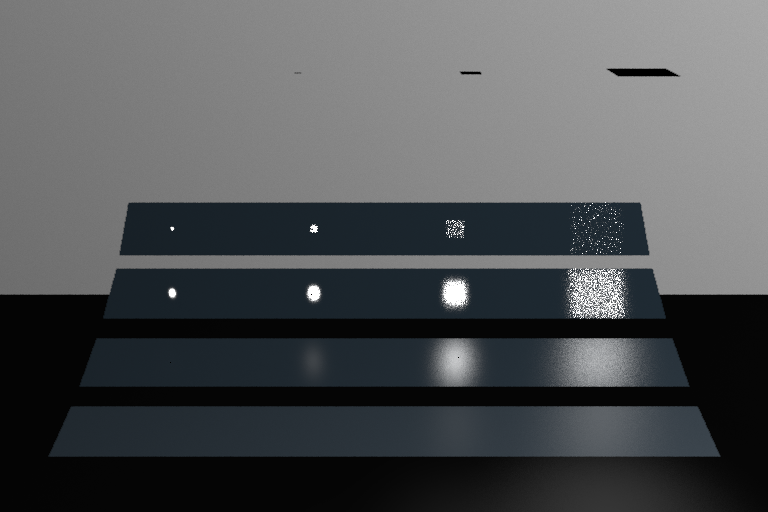
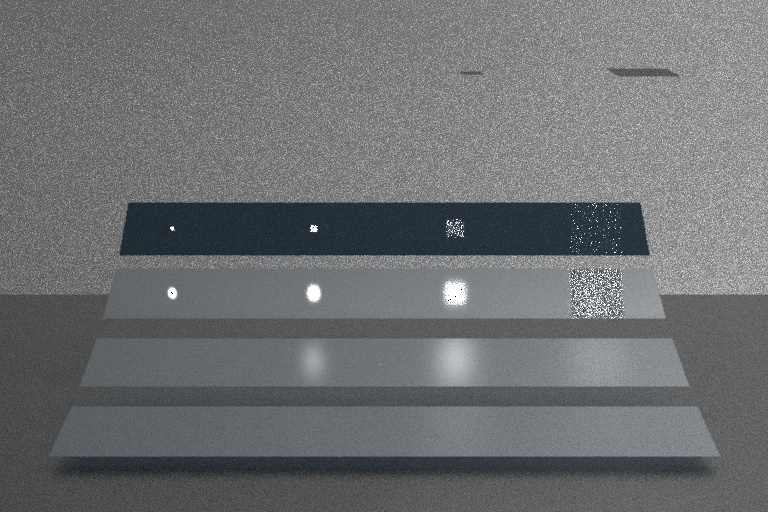
Further MIS WIP

diff --git a/src/raytracer.cpp b/src/raytracer.cpp
@@ -997,7 +997,7 @@ glm::vec3 PathTracerFindColor(UniformGrid* grid, const Ray& ray, Scene* scene, C
 
 
 
-	if (depth >= maxDepth)
+	if (depth > maxDepth)
 	{
 		return accumCol;
 		//	return glm::vec3(0.0f);
@@ -1008,6 +1008,8 @@ glm::vec3 PathTracerFindColor(UniformGrid* grid, const Ray& ray, Scene* scene, C
 	float pdfNEE = 1.0f;
 	float pdfBRDF = 1.0f;
 	float pdfL2 = 1.0f;
+	glm::vec3 brdfNEE = glm::vec3(0.0f);
+	float G = 1.0f;
 
 	if (useNEE == "on" || useNEE == "mis")
 	{
@@ -1062,7 +1064,7 @@ glm::vec3 PathTracerFindColor(UniformGrid* grid, const Ray& ray, Scene* scene, C
 
 				if (intersection.brdf == "phong")
 				{
-					brdf = (intersection.hitObjectDiffuse / (float)M_PI) + (intersection.hitObjectSpecular * ((intersection.hitObjectShininess + 2) / (float)(M_PI * 2.0f))) * (glm::pow(reflectVecDotWo, intersection.hitObjectShininess));
+					brdfNEE = (intersection.hitObjectDiffuse / (float)M_PI) + (intersection.hitObjectSpecular * ((intersection.hitObjectShininess + 2) / (float)(M_PI * 2.0f))) * (glm::pow(reflectVecDotWo, intersection.hitObjectShininess));
 					pdfBRDF = ((intersection.hitObjectShininess + 1) / (float)(2.0f * M_PI)) * glm::pow(reflectVecDotWo, intersection.hitObjectShininess);
 				}
 				else if (intersection.brdf == "ggx")
@@ -1096,24 +1098,23 @@ glm::vec3 PathTracerFindColor(UniformGrid* grid, const Ray& ray, Scene* scene, C
 
 					EvaluateGGX(intersection.hitObjectRoughness, intersection.hitObjectNormal, halfVector, D, pdfBRDF, t, wi);
 
-					brdf = (intersection.hitObjectDiffuse / (float)M_PI) + (D * G * F) / (4.0f * NdotL * NdotV + 1e-6f);
+					brdfNEE = (intersection.hitObjectDiffuse / (float)M_PI) + (D * G * F) / (4.0f * NdotL * NdotV + 1e-6f);
 				}
-				float G = (1.0f / glm::pow(glm::length(sampleLightPoint - intersection.intersectionPoint), 2.0f)) * std::max(glm::dot(intersection.hitObjectNormal, dir), 0.0f) * std::max(glm::dot(lightNormal, dir), 0.0f);
+				G = (1.0f / glm::pow(glm::length(sampleLightPoint - intersection.intersectionPoint), 2.0f)) * std::max(glm::dot(intersection.hitObjectNormal, dir), 0.0f) * std::max(glm::dot(lightNormal, dir), 0.0f);
 				
-				if (useNEE == "mis")
-				{
-					pdfNEE = (1.0f / lightArea);
-
-					float weight = glm::max(pdfBRDF * pdfBRDF, 1e-6f) / (pdfNEE * pdfNEE + pdfBRDF * pdfBRDF + 1e-6f);
-
-					perLight += brdf * G * weight;
-				}
+			
 
 			}
+			if (useNEE == "mis")
+			{
+				pdfNEE = (1.0f / lightArea);
+				pdfNEE /= samples;
+				pdfNEE /= lights.size();
 
-			float weight = glm::max(pdfBRDF * pdfBRDF, 1e-6f) / pdfL2;
-			pdfNEE /= samples;
-			pdfNEE /= lights.size();
+				float weight = glm::max(pdfBRDF * pdfBRDF, 1e-6f) / (pdfNEE * pdfNEE + pdfBRDF * pdfBRDF + 1e-6f);
+
+				perLight += brdfNEE * G * weight;
+			}
 
 
 			directLight += perLight * light->intensity * (lightArea / (float)samples);
@@ -1612,7 +1613,7 @@ int RenderPixels(int heightChunkStart, int heightChunk, Scene& scene, Camera& ca
 						//accumCol += intersection.hitObjectEmission;
 					}
 				}
-
+				accumCol /= 2;
 				accumCol /= static_cast<float>(spp); // Average the samples for anti-aliasing
 				col = accumCol;
 			}
